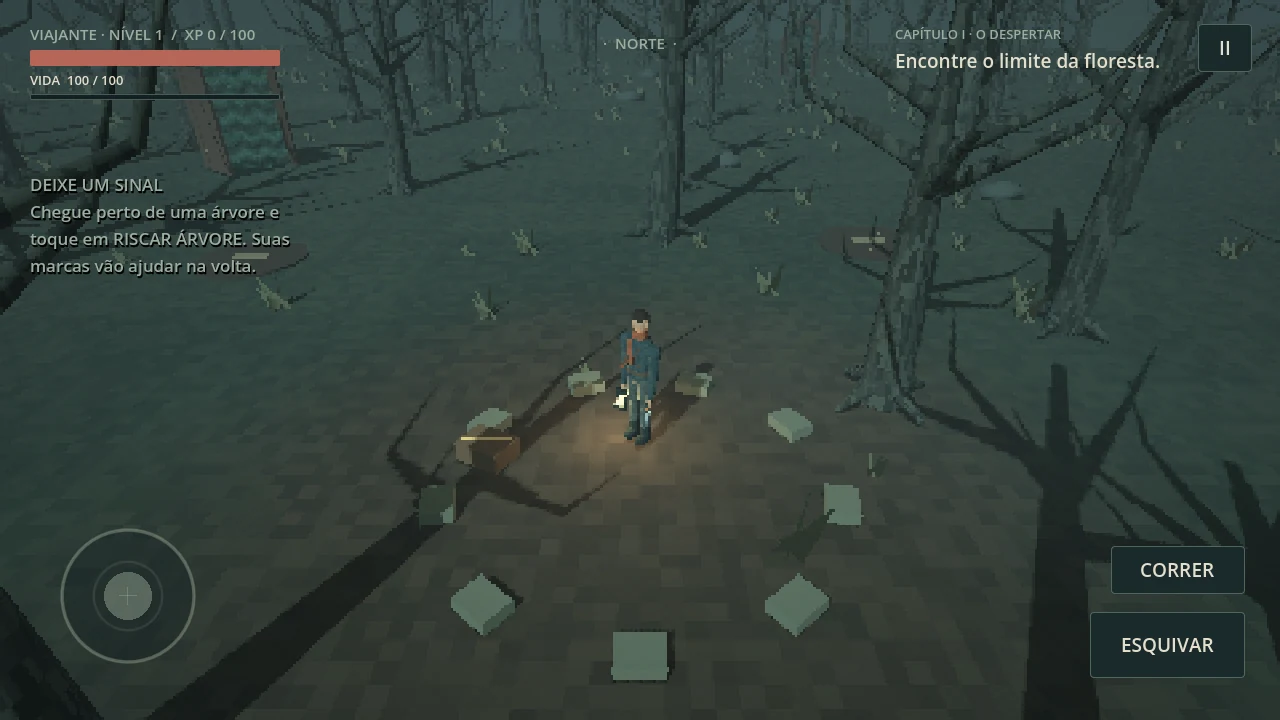
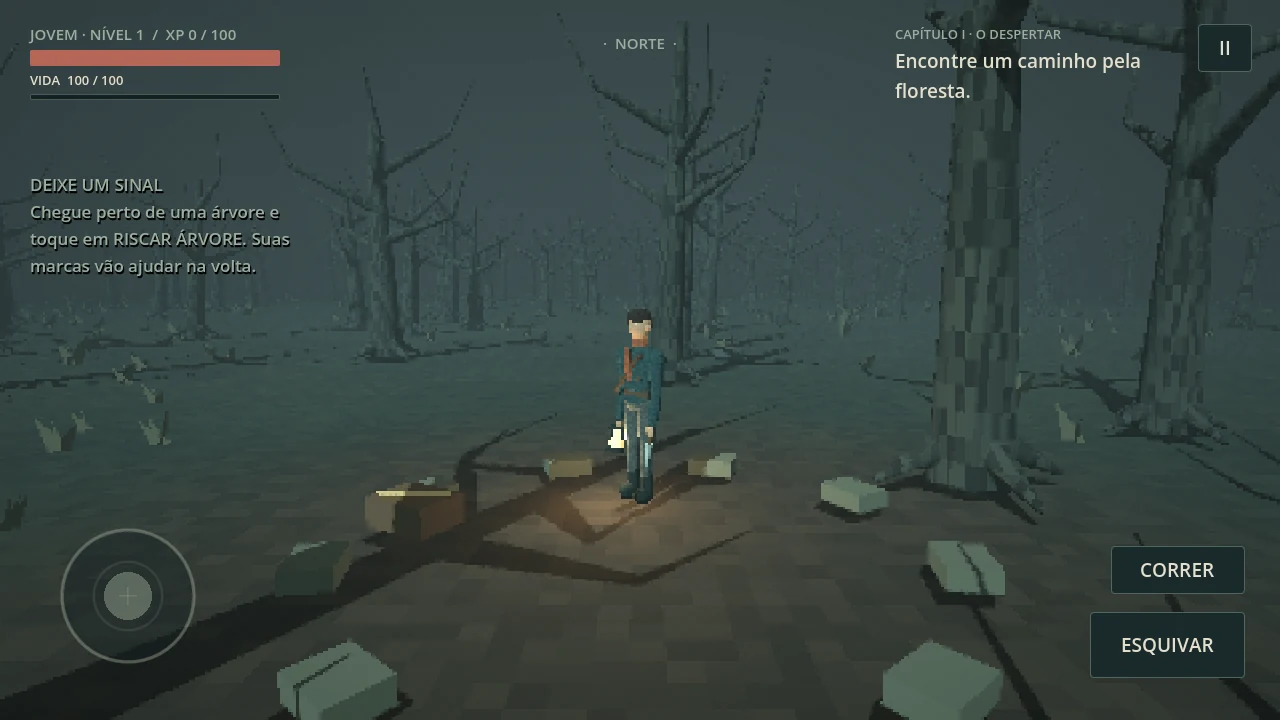
Document Android validation of the young awakening and expanded forest

diff --git a/docs/VERIFICATION.md b/docs/VERIFICATION.md
@@ -1,44 +1,48 @@
-# Verificação da versão 0.3 — O viajante
+# Verificação da versão 0.4 — O despertar
 
-Release: **[v0.3.0-build.12](https://github.com/emanoelb5-lgtm/the-last-Linea/releases/tag/v0.3.0-build.12)** · versão Android **1012**.
-Código compilado: `6774e4effcd5d2ec0f3cb9557ddba5cde48810b0`.
+Release: **[v0.4.0-build.13](https://github.com/emanoelb5-lgtm/the-last-Linea/releases/tag/v0.4.0-build.13)** · versão Android **1013**.
+Código compilado: `2d3cd80466d1df09663cdb81c534fa8aebf8ac27`.
 
 ## Resultado observado
 
-[GitHub Actions 42092419736](https://github.com/emanoelb5-lgtm/the-last-Linea/actions/runs/42092419736): **success**.
+[GitHub Actions 42144564659](https://github.com/emanoelb5-lgtm/the-last-Linea/actions/runs/42144564659): **success**.
 
-- **54 verificações de integração** e **3 testes de preparação de release**, sem falhas.
-- O próprio APK ARM64 publicado foi instalado em Android 15, imagem Google APIs x86_64 com tradução ARM64. O teste abriu o menu, iniciou o capítulo, aguardou a cutscene, entrou na exploração e enviou movimento por toque.
+- **65 verificações de integração** e **3 testes de preparação de release**, sem falhas.
+- O APK ARM64 publicado foi instalado em Android 15, imagem Google APIs x86_64 com tradução ARM64. O teste abriu o menu, iniciou o capítulo, aguardou a cutscene completa, entrou na exploração e enviou movimento por toque.
 - O teste colocou o app em segundo plano e o trouxe de volta sem trocar de processo. Exigiu uma imagem visível, identificou o botão **Voltar à floresta**, tocou nele e confirmou a retomada da exploração com outra imagem visível.
 - Os registros confirmam `LINEA_BOOT_READY`, `LINEA_INTRO_READY`, `LINEA_PLAY_READY`, `LINEA_BUTTON RESUME_GAME`, `LINEA_PLAY_RESUMED` e `PASS: Android startup, cutscene, gameplay, touch and background/resume`.
 - Não houve erro de script, erro da árvore da cena ou falha nativa nessa execução. O teste rejeita telas uniformes/pretas mesmo com o processo aberto.
-- As capturas foram revisadas visualmente: [exploração após retornar](screenshots/09-android.webp) e [menu de pausa](screenshots/10-android-pausa.webp). Todas têm **1280 × 720 (16:9)**. Os artefatos incluem também menu, cutscene, início da exploração, logs e verificação do pacote.
+- As capturas do próprio APK foram revisadas visualmente: abertura, [exploração após retornar](screenshots/09-android.webp) e [menu de pausa](screenshots/10-android-pausa.webp). Todas têm **1280 × 720 (16:9)**. Os artefatos do Actions incluem imagens, logs e verificação do pacote.
 
-O modelo novo também foi renderizado em OpenGL no desktop: cabeça oval, rosto, pescoço, mãos com polegares, tronco afunilado, cotovelos e joelhos articulados. O corpo usa volumes anatômicos, sem cubos; o aspecto pixelado vem da baixa resolução e dos materiais. [Personagem visto de frente](screenshots/08-personagem-humano.webp).
+## Personagem, abertura e câmera
 
-## Falhas corrigidas
+O jovem usa volumes anatômicos afunilados, rosto sem barba, franja escura, mãos, cotovelos, joelhos e tornozelos articulados. O visual pixelado vem da baixa resolução e dos materiais. A abertura de 16 segundos passa por despertar, apoio com as mãos, posição sentada, ajoelhamento, subida e equilíbrio; a lanterna permanece no chão até ser recolhida. O jovem olha ao redor e pergunta em legenda **“— Onde eu estou?”**.
 
-O APK anterior **v0.2.0-build.5 / 1005** fechou durante a abertura no Android de teste, com `SIGSEGV` na thread `AudioTrack`. A reprodução com ANGLE eliminou os erros gráficos específicos do primeiro backend de emulação, mas manteve o fechamento de áudio. Os símbolos oficiais apontaram `AudioStreamPlaybackResampled::mix`, `audio_stream.cpp:222`, chamado pelo mixer e pelo driver OpenSL. Referências: [reprodução](https://github.com/emanoelb5-lgtm/the-last-Linea/actions/runs/42083219483) e [símbolos](https://github.com/emanoelb5-lgtm/the-last-Linea/actions/runs/42084696523).
+As verificações exercitam 321 poses, conferem posições finitas e contínuas, o joelho perto do solo e o pé de apoio durante a subida. A câmera usa ângulo baixo, limites de inclinação e obstrução pelas árvores. Também foram revisadas renderizações OpenGL de [frente](screenshots/08-personagem-humano.webp), [ajoelhado](screenshots/14-ajoelhado.webp), [perguntando onde está](screenshots/16-onde-estou.webp) e durante a exploração.
 
-A versão 0.3 substitui os buffers WAV sintetizados durante a abertura por assets Ogg a 48 kHz e começa a ambientação após o primeiro quadro. O SubViewport recebe dimensões válidas antes de entrar na cena, mesmo enquanto o Android informa tamanho nulo; a vinheta passou a usar limites definidos de `smoothstep`.
+## Floresta e final do capítulo
 
-A revisão das capturas também encontrou uma tela preta após o retorno do segundo plano, acompanhada de `EGL_BAD_SURFACE`. A camada Java passou a permitir a recuperação da superfície EGL sem descartar o contexto gráfico. A origem, o SHA-256 do fonte original e a alteração estão descritos em [native-compat/README.md](../native-compat/README.md). A licença Apache-2.0 acompanha o código e a tela de licenças do jogo. Os dois binários nativos oficiais da engine foram comparados com o build anterior e continuam **idênticos byte a byte**.
+- A encosta fica a **760 m do início**, formando uma floresta com cerca de **1,5 km de diâmetro**. A geometria é carregada em 25 regiões ao redor do jogador; árvores distantes têm menos detalhes e colisões são mantidas próximas ao personagem.
+- Os testes percorrem oito direções e verificam que o conjunto de árvores carregadas permanece abaixo de 1.400, sem acumular regiões abandonadas.
+- Não há armadilhas a menos de **260 m** nem portas a menos de **410 m** do início. As distâncias de todos os objetos são verificadas automaticamente.
+- Chegar ao pé da montanha encerra o capítulo automaticamente, por qualquer direção. Cinco metros antes ainda não encerra. Memórias, portas e quantidade de marcas não bloqueiam o final.
+- A descoberta e o encerramento concedem 100 XP ao todo, apenas uma vez. A tela [Ao pé da montanha](screenshots/17-pe-da-montanha.webp) foi revisada em 1280 × 720.
+- Marcas são reconstruídas ao descarregar e recarregar uma região. Um teste manual independente confirmou que as **240 posições de árvores anteriores permanecem idênticas**. Também riscou a árvore nova de ID 27876, salvou, recarregou o estado e retornou à região: a marca reapareceu.
 
-O menu de pausa tentava adicionar controles enquanto a árvore estava bloqueada pela propagação da notificação do Android. Sua criação e o tratamento de Voltar passaram a ocorrer depois da propagação; o botão Voltar deixa de provocar a saída automática. Dois testes propagam essas notificações pela árvore e conferem a presença do menu e a retomada.
-
-O teste de Android agora aguarda a estabilização dos recursos do primeiro boot do emulador e dispensa o tutorial nativo de tela cheia antes de interagir com o jogo. A publicação exige tanto o processo vivo quanto a imagem restaurada e a interação de retomada.
+O esquema de salvamento continua sendo 1. Vida, XP, marcas, memórias, armadilhas e conclusão anterior permanecem compatíveis. **Continuar** preserva o progresso; **Novo capítulo**, após a confirmação do jogo, reinicia o progresso para assistir à nova abertura.
 
 ## Integridade e compatibilidade
 
 O APK público foi baixado separadamente e comparado com `update.json`, com o arquivo testado no Actions e com o digest do GitHub. Os valores coincidiram:
 
-- Tamanho: **73.882.963 bytes**.
[1 lines of base64/hex data omitted]
+- Tamanho: **73.892.936 bytes**.
[2 lines of base64/hex data omitted]
 - Pacote `online.b5solucoes.thelastlinea.preview`, ARM64, orientação horizontal, API mínima 24, alvo 36 e ponte nativa de atualização verificados no APK.
 - Presença da correção de superfície confirmada no DEX pelo verificador de empacotamento.
-- Mesmo esquema de salvamento (1): vida, XP, marcas, memórias, armadilhas, montanha e progresso continuam compatíveis. Atualize por cima da versão anterior para manter os dados locais.
+
+As correções de abertura e retorno da versão 0.3 continuam presentes: áudio Ogg a 48 kHz iniciado após o primeiro quadro, SubViewport com dimensões válidas, tratamento adiado da pausa/Voltar e recuperação de superfície EGL. A alteração Java e sua licença estão documentadas em [native-compat/README.md](../native-compat/README.md).
 
 ## Limite da validação
 
-Não houve acesso a um Android físico. O teste emulado confirma abertura, capítulo, retorno e interação nesse ambiente; não mede FPS, temperatura nem todos os drivers do Galaxy A56. O fechamento do APK anterior foi reproduzido no teste, mas sem um log do telefone não se identifica com certeza o ponto exato da falha naquele aparelho.
+Não houve acesso a um Android físico. O teste emulado confirma abertura, capítulo, retorno e interação nesse ambiente; não mede FPS, temperatura nem todos os drivers do Galaxy A56.
